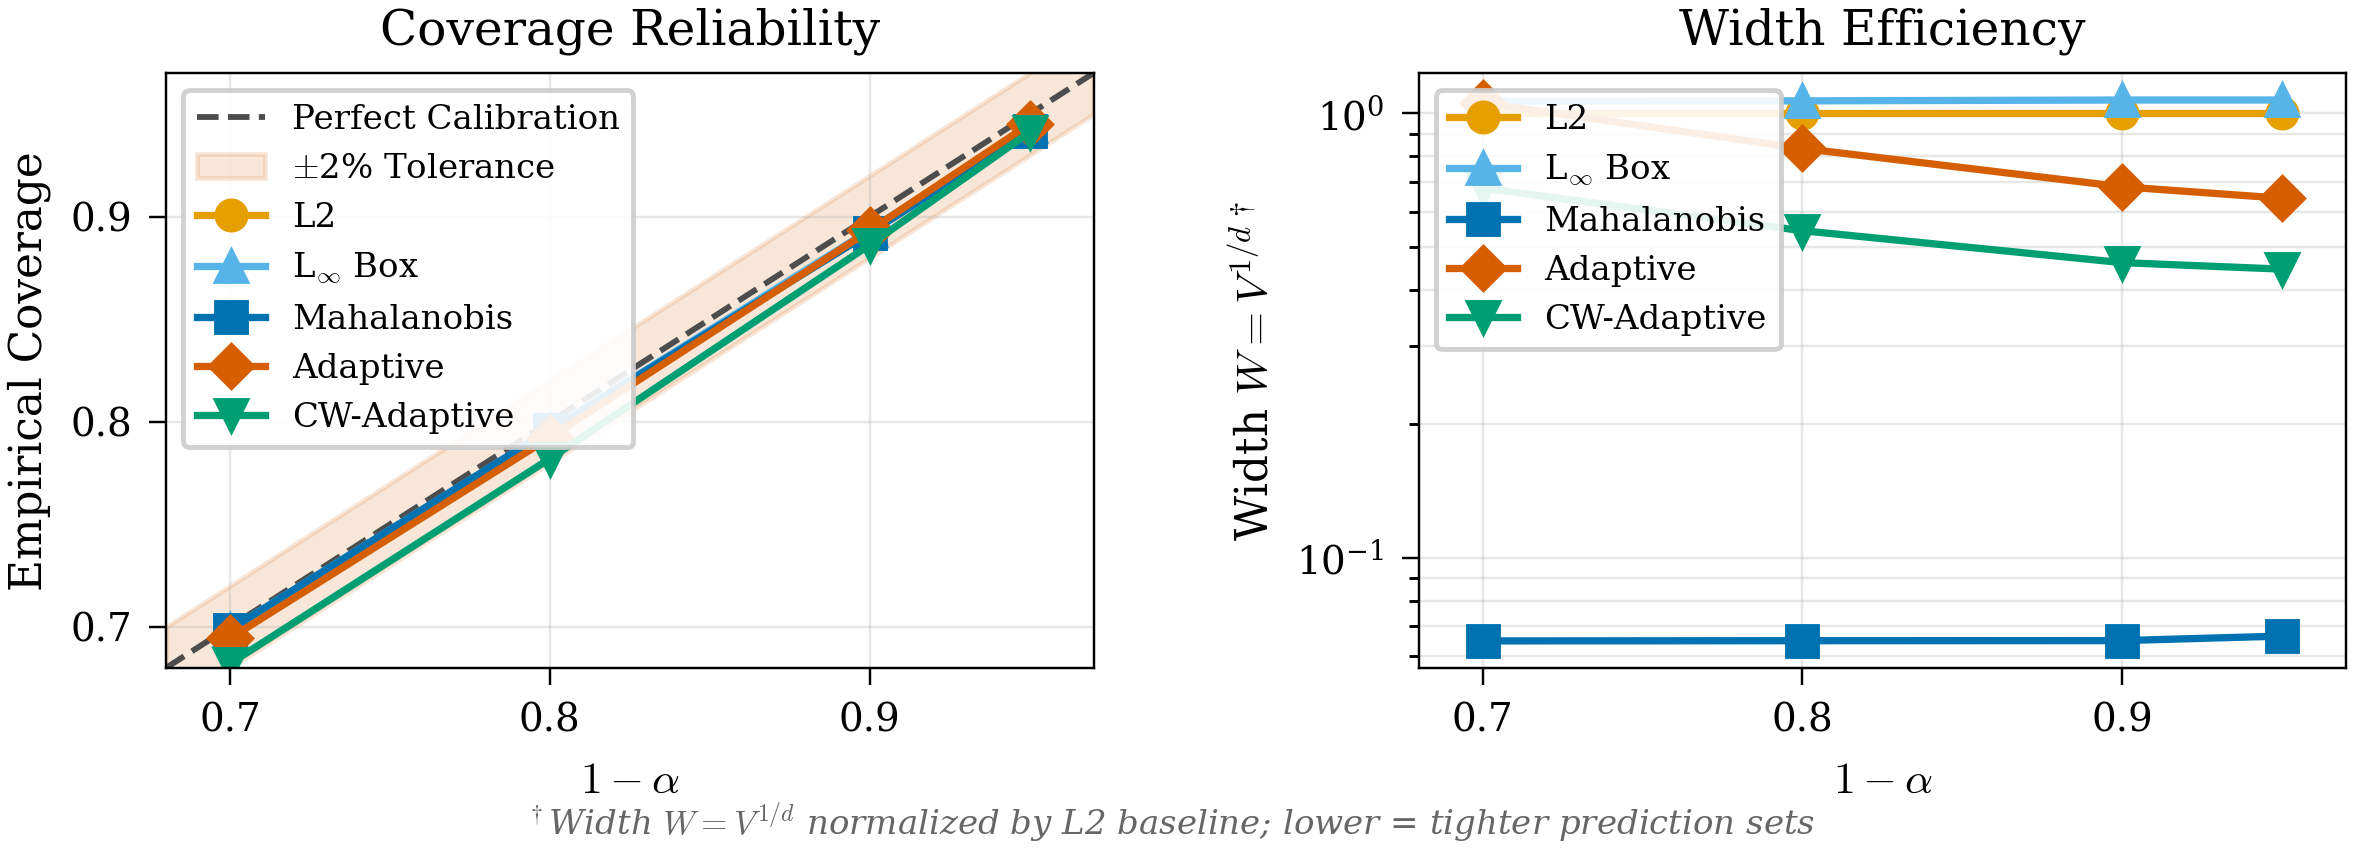
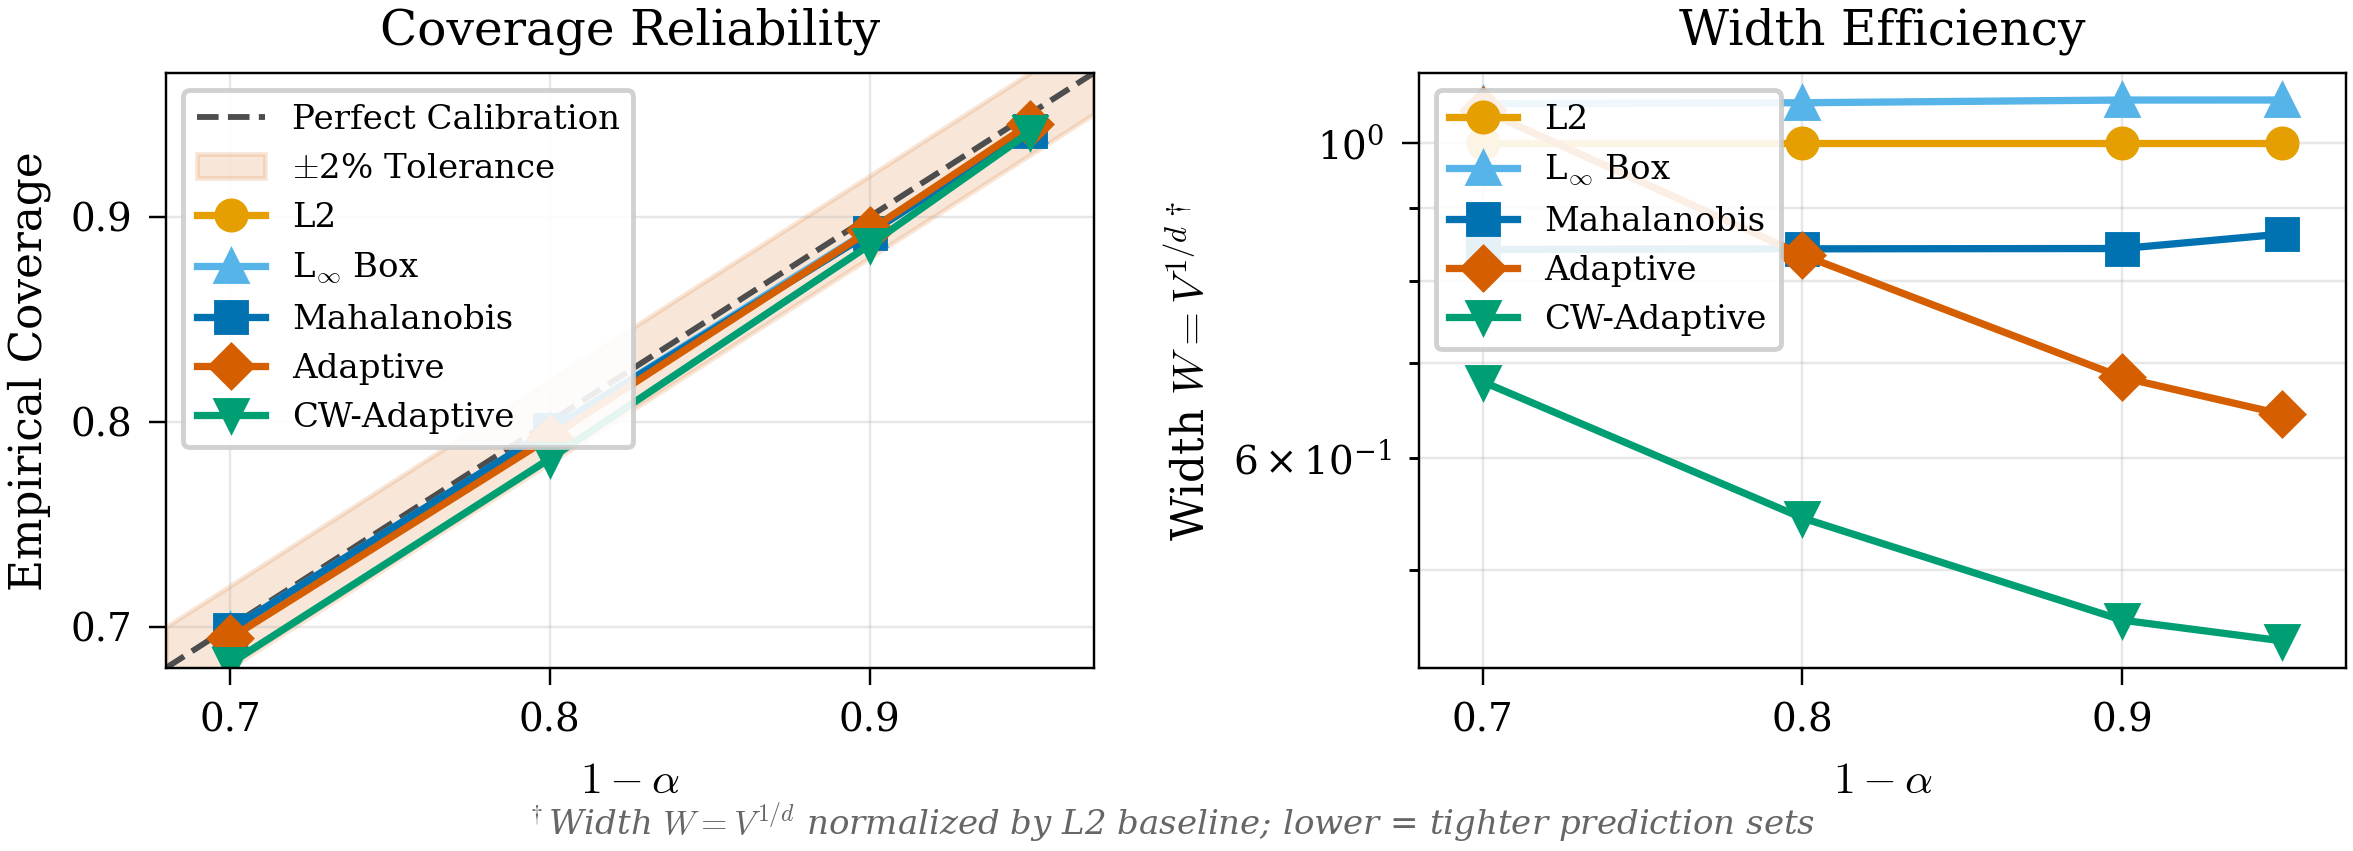
#bug fix: double-normalization of Mahalanobis coverage

diff --git a/plot/tables.py b/plot/tables.py
@@ -27,7 +27,7 @@ METHOD_LABELS = {
     "linf": r"Joint $\ell_\infty$ (box)",
     "mah": r"Mahalanobis",
     "adapt": r"Adaptive",
-    "cw_adapt": r"Componentwise",
+    "cw_adapt": r"CW-Adaptive",
 }
 
 METHOD_LABELS_SHORT = {
@@ -127,8 +127,10 @@ def load_dataset_results(conformal_out: str, name: str, dim: int) -> DatasetResu
             elif method == "linf":
                 vol = (2 * avg_r) ** dim
             elif method == "mah":
-                # Mahalanobis ellipsoid volume = unit_vol * r^d * sqrt(det(Sigma))
-                vol = unit_vol * (avg_r**dim) * sqrt_det
+                # Mahalanobis: avg_r from pipeline.py is already the "effective radius"
+                # r_eff = q * det(Sigma)^{1/(2d)}, so V = unit_vol * r_eff^d gives
+                # the correct ellipsoid volume. Do NOT multiply by sqrt_det again!
+                vol = unit_vol * (avg_r**dim)
             else:
                 vol = l2_vol
 
@@ -257,8 +259,9 @@ def write_latex_dataset_table(
         lines.append(row_color + " & ".join(cells) + r" \\")
 
     # Improvement row - find best method per alpha (smallest width)
+    # Shows: coverage maintained (≈ nominal), width reduction vs L2
     lines.append(r"\midrule")
-    cells = [r"\textit{Improvement}"]
+    cells = [r"\textit{Best vs $\ell_2$}"]
     for a in alphas:
         l2 = data.results["l2"][a]
 
@@ -266,23 +269,18 @@ def write_latex_dataset_table(
         best_method = min(available_methods, key=lambda m: data.results[m][a].width_norm)
         best = data.results[best_method][a]
 
-        # Coverage change
-        cov_diff = (best.coverage - l2.coverage) * 100
-        if abs(cov_diff) < 0.1:
-            cov_str = "--"
-        elif cov_diff >= 0:
-            cov_str = rf"+{cov_diff:.1f}\%"
-        else:
-            cov_str = rf"{cov_diff:.1f}\%"
+        # Coverage: show that best method maintains similar coverage
+        # Use "≈" to indicate coverage is comparable across methods
+        cov_str = r"$\approx$"
 
         # Width reduction (relative to L2)
         width_red = (1 - best.width_norm / l2.width_norm) * 100
         if abs(width_red) < 0.5:
             width_str = "--"
         elif width_red > 0:
-            width_str = rf"$\downarrow${width_red:.1f}\%"
+            width_str = rf"$\downarrow${width_red:.0f}\%"
         else:
-            width_str = rf"$\uparrow${-width_red:.1f}\%"
+            width_str = rf"$\uparrow${-width_red:.0f}\%"
 
         cells.append(cov_str)
         cells.append(width_str)
@@ -299,7 +297,7 @@ def write_latex_dataset_table(
             r"\end{tabular}",
             r"",
             r"\vspace{2pt}",
-            rf"\parbox{{\linewidth}}{{\footnotesize $^\dagger$Width $= V^{{1/d}}$ normalized to $\ell_2$. Evaluated on {n_samples} samples ({sample_info}).}}",
+            rf"\parbox{{\linewidth}}{{\footnotesize $^\dagger$Width $= V^{{1/d}}$ normalized to $\ell_2$; $\approx$ means coverage comparable across methods (all close to nominal). Evaluated on {n_samples} samples ({sample_info}).}}",
             r"\end{table}",
         ]
     )
@@ -470,6 +468,7 @@ def write_latex_efficiency_ratio(
         r"\begin{table}[ht]",
         r"\centering",
         r"\small",
+        r"\setlength{\tabcolsep}{4pt}",
         r"\caption{Relative prediction set width (ratio to smallest). 1.00 = best.}",
         r"\label{tab:efficiency-comparison}",
         r"\begin{tabular}{@{}l" + "r" * len(alphas) * 2 + r"@{}}",
@@ -485,7 +484,8 @@ def write_latex_efficiency_ratio(
     cmidrule2 = rf"\cmidrule(lr){{{2+len(alphas)}-{1+2*len(alphas)}}}"
     lines.append(cmidrule1 + cmidrule2)
 
-    header2 = " & ".join([""] + [f"$\\alpha={a:.2f}$" for a in alphas] * 2)
+    # Compact alpha format: .30 instead of $\alpha=0.30$
+    header2 = r"$\alpha=$ & " + " & ".join([f".{int(a*100):02d}" for a in alphas] * 2)
     lines.append(header2 + r" \\")
     lines.append(r"\midrule")
 

diff --git a/plot/coverage.py b/plot/coverage.py
@@ -84,6 +84,7 @@ def fig_coverage_efficiency(
     *,
     dim: int = 2,
     dpi: int = PUBLICATION_DPI,
+    log_scale: bool = True,
 ) -> None:
     """
     Create 1x2 coverage reliability and width efficiency plot.
@@ -182,7 +183,8 @@ def fig_coverage_efficiency(
     ax_eff.set_xlabel(r"$1 - \alpha$", fontsize=9)
     ax_eff.set_ylabel(r"Width $W = V^{1/d}$$^\dagger$", fontsize=9)
     ax_eff.set_title("Width Efficiency", fontsize=10, fontweight="medium")
-    ax_eff.set_yscale("log")
+    if log_scale:
+        ax_eff.set_yscale("log")
     ax_eff.set_xlim(0.68, 0.97)
     # Use 0.1 intervals for more compact display
     ax_eff.set_xticks([0.7, 0.8, 0.9])
@@ -229,6 +231,8 @@ Recommended usage:
     )
     ap.add_argument("--dataset", default="", help="Dataset name for title")
     ap.add_argument("--dim", type=int, default=2, help="Output dimension (2 for Cylinder, 3 for Flag)")
+    ap.add_argument("--log-scale", dest="log_scale", action="store_true", default=True, help="Use log scale for width (default)")
+    ap.add_argument("--no-log-scale", dest="log_scale", action="store_false", help="Use linear scale for width")
     args = ap.parse_args()
 
     fig_coverage_efficiency(
@@ -236,6 +240,7 @@ Recommended usage:
         Path(args.out_png),
         dataset_name=args.dataset,
         dim=args.dim,
+        log_scale=args.log_scale,
     )
 
 
